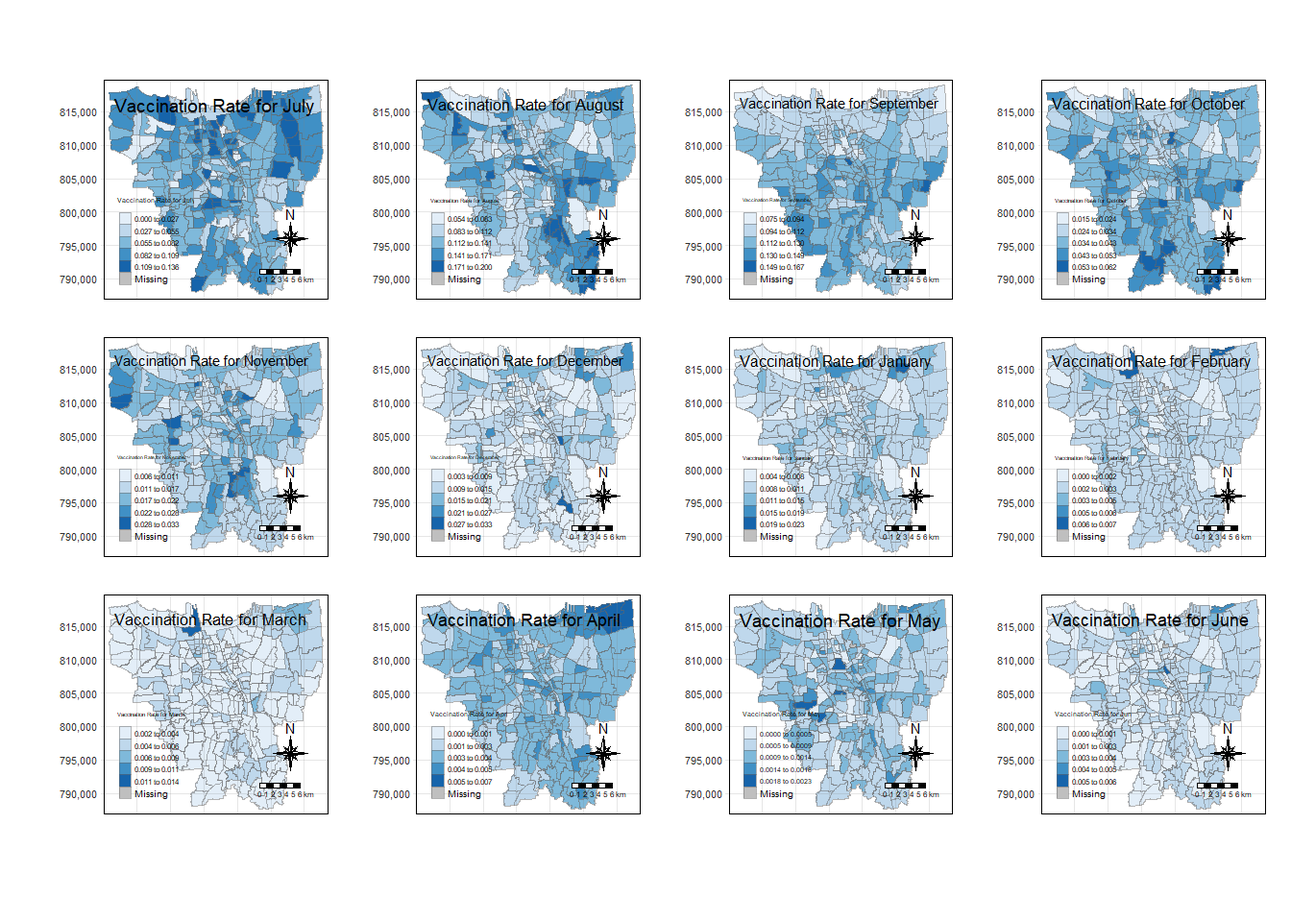
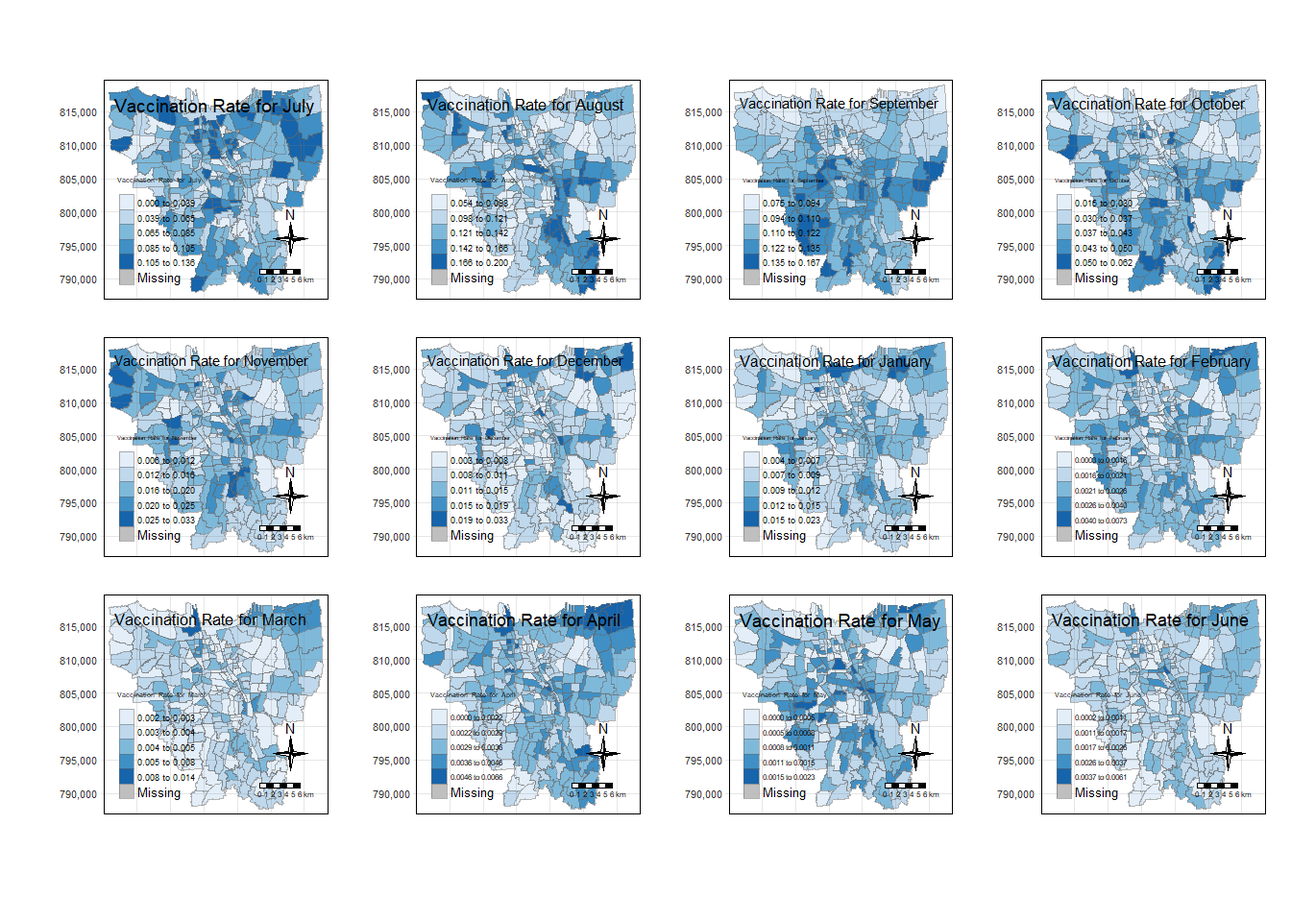
penultimate commit

diff --git a/_site/Take-home_Ex/Take-home_Ex02/Take-home_Ex02.html b/_site/Take-home_Ex/Take-home_Ex02/Take-home_Ex02.html
@@ -264,6 +264,19 @@ code span.wa { color: #60a0b0; font-weight: bold; font-style: italic; } /* Warni
   <li><a href="#monthly-vaccination-rate-visualization" id="toc-monthly-vaccination-rate-visualization" class="nav-link" data-scroll-target="#monthly-vaccination-rate-visualization"><span class="toc-section-number">4.2</span>  Monthly Vaccination Rate Visualization</a></li>
   <li><a href="#conclusion" id="toc-conclusion" class="nav-link" data-scroll-target="#conclusion"><span class="toc-section-number">4.3</span>  Conclusion</a></li>
   </ul></li>
+  <li><a href="#local-gi-analysis" id="toc-local-gi-analysis" class="nav-link" data-scroll-target="#local-gi-analysis"><span class="toc-section-number">5</span>  Local Gi* Analysis</a>
+  <ul class="collapse">
+  <li><a href="#compute-local-gi-values" id="toc-compute-local-gi-values" class="nav-link" data-scroll-target="#compute-local-gi-values"><span class="toc-section-number">5.1</span>  Compute local Gi* values</a></li>
+  <li><a href="#gi-maps-of-monthly-vaccination-rate" id="toc-gi-maps-of-monthly-vaccination-rate" class="nav-link" data-scroll-target="#gi-maps-of-monthly-vaccination-rate"><span class="toc-section-number">5.2</span>  Gi* maps of monthly vaccination rate</a></li>
+  <li><a href="#conclusion-1" id="toc-conclusion-1" class="nav-link" data-scroll-target="#conclusion-1"><span class="toc-section-number">5.3</span>  Conclusion</a></li>
+  </ul></li>
+  <li><a href="#emerging-hot-spot-analysis-ehsa" id="toc-emerging-hot-spot-analysis-ehsa" class="nav-link" data-scroll-target="#emerging-hot-spot-analysis-ehsa"><span class="toc-section-number">6</span>  Emerging Hot Spot Analysis (EHSA)</a>
+  <ul class="collapse">
+  <li><a href="#mann-kendall-test" id="toc-mann-kendall-test" class="nav-link" data-scroll-target="#mann-kendall-test"><span class="toc-section-number">6.1</span>  Mann-Kendall Test</a></li>
+  <li><a href="#temporal-trends-in" id="toc-temporal-trends-in" class="nav-link" data-scroll-target="#temporal-trends-in"><span class="toc-section-number">6.2</span>  Temporal Trends in …</a></li>
+  <li><a href="#ehsa-map-of-gi-values" id="toc-ehsa-map-of-gi-values" class="nav-link" data-scroll-target="#ehsa-map-of-gi-values"><span class="toc-section-number">6.3</span>  EHSA map of Gi* values</a></li>
+  <li><a href="#spatial-patterns-description" id="toc-spatial-patterns-description" class="nav-link" data-scroll-target="#spatial-patterns-description"><span class="toc-section-number">6.4</span>  Spatial Patterns description</a></li>
+  </ul></li>
   </ul>
 </nav>
     </div>
@@ -297,7 +310,7 @@ code span.wa { color: #60a0b0; font-weight: bold; font-style: italic; } /* Warni
     <div>
     <div class="quarto-title-meta-heading">Modified</div>
     <div class="quarto-title-meta-contents">
-      <p class="date-modified">February 26, 2023</p>
+      <p class="date-modified">March 2, 2023</p>
     </div>
   </div>
     
@@ -311,7 +324,7 @@ code span.wa { color: #60a0b0; font-weight: bold; font-style: italic; } /* Warni
 <section id="installing-and-loading-packages" class="level2" data-number="1.1">
 <h2 data-number="1.1" class="anchored" data-anchor-id="installing-and-loading-packages"><span class="header-section-number">1.1</span> Installing and Loading Packages</h2>
 <div class="cell">
-<div class="sourceCode cell-code" id="cb1"><pre class="sourceCode r code-with-copy"><code class="sourceCode r"><span id="cb1-1"><a href="#cb1-1" aria-hidden="true" tabindex="-1"></a>pacman<span class="sc">::</span><span class="fu">p_load</span>(sf, sfdep, sp, tmap, plyr, tidyverse, readxl, magrittr, knitr)</span></code><button title="Copy to Clipboard" class="code-copy-button"><i class="bi"></i></button></pre></div>
+<div class="sourceCode cell-code" id="cb1"><pre class="sourceCode r code-with-copy"><code class="sourceCode r"><span id="cb1-1"><a href="#cb1-1" aria-hidden="true" tabindex="-1"></a>pacman<span class="sc">::</span><span class="fu">p_load</span>(sf, sfdep, tmap, plyr, tidyverse, readxl, magrittr, knitr)</span></code><button title="Copy to Clipboard" class="code-copy-button"><i class="bi"></i></button></pre></div>
 </div>
 </section>
 </section>
@@ -472,7 +485,7 @@ $ `TENAGA KESEHATAN TOTAL\r\nVAKSIN DIBERIKAN` &lt;dbl&gt; 138539, 194, 171, 394
 <span id="cb19-2"><a href="#cb19-2" aria-hidden="true" tabindex="-1"></a>  <span class="fu">relocate</span>(<span class="st">"Vaccination Target"</span>, <span class="at">.after=</span><span class="st">"KELURAHAN"</span>)</span></code><button title="Copy to Clipboard" class="code-copy-button"><i class="bi"></i></button></pre></div>
 </div>
 <div class="cell">
-<div class="sourceCode cell-code" id="cb20"><pre class="sourceCode r code-with-copy"><code class="sourceCode r"><span id="cb20-1"><a href="#cb20-1" aria-hidden="true" tabindex="-1"></a><span class="fu">kable</span>(vaccination)</span></code><button title="Copy to Clipboard" class="code-copy-button"><i class="bi"></i></button></pre></div>
+<div class="sourceCode cell-code" id="cb20"><pre class="sourceCode r code-with-copy"><code class="sourceCode r"><span id="cb20-1"><a href="#cb20-1" aria-hidden="true" tabindex="-1"></a><span class="fu">kable</span>(<span class="fu">head</span>(vaccination))</span></code><button title="Copy to Clipboard" class="code-copy-button"><i class="bi"></i></button></pre></div>
 </div>
 <p>Now, we will look for any potential redundant fields or duplicated regions. We shall use the code chunk below to check for duplicates.</p>
 <div class="cell">
@@ -607,43 +620,144 @@ $ `TENAGA KESEHATAN TOTAL\r\nVAKSIN DIBERIKAN` &lt;dbl&gt; 138539, 194, 171, 394
 <span id="cb43-8"><a href="#cb43-8" aria-hidden="true" tabindex="-1"></a>  vac_current <span class="ot">=</span> dataCleaned <span class="sc">%&gt;%</span></span>
 <span id="cb43-9"><a href="#cb43-9" aria-hidden="true" tabindex="-1"></a>  <span class="fu">extract2</span>(<span class="fu">colnames</span>(dataCleaned)[<span class="fu">grepl</span>(i , <span class="fu">names</span>(dataCleaned))])</span>
 <span id="cb43-10"><a href="#cb43-10" aria-hidden="true" tabindex="-1"></a>  </span>
-<span id="cb43-11"><a href="#cb43-11" aria-hidden="true" tabindex="-1"></a>  colname <span class="ot">=</span> <span class="fu">paste</span>(<span class="st">"Vaccination Rate for"</span>, i, <span class="at">sep =</span> <span class="st">" "</span>)</span>
+<span id="cb43-11"><a href="#cb43-11" aria-hidden="true" tabindex="-1"></a>  colname <span class="ot">=</span> <span class="fu">paste</span>(<span class="st">"Vaccination_Rate_for"</span>, i, <span class="at">sep =</span> <span class="st">"_"</span>)</span>
 <span id="cb43-12"><a href="#cb43-12" aria-hidden="true" tabindex="-1"></a>  dataCleaned[colname] <span class="ot">=</span> <span class="fu">abs</span>(vac_current <span class="sc">-</span> vac_minus1) <span class="sc">/</span> vac_target</span>
 <span id="cb43-13"><a href="#cb43-13" aria-hidden="true" tabindex="-1"></a>  </span>
 <span id="cb43-14"><a href="#cb43-14" aria-hidden="true" tabindex="-1"></a>  vac_minus1 <span class="ot">=</span> vac_current</span>
-<span id="cb43-15"><a href="#cb43-15" aria-hidden="true" tabindex="-1"></a>}</span></code><button title="Copy to Clipboard" class="code-copy-button"><i class="bi"></i></button></pre></div>
+<span id="cb43-15"><a href="#cb43-15" aria-hidden="true" tabindex="-1"></a>}</span>
+<span id="cb43-16"><a href="#cb43-16" aria-hidden="true" tabindex="-1"></a></span>
+<span id="cb43-17"><a href="#cb43-17" aria-hidden="true" tabindex="-1"></a>dataCleaned <span class="ot">=</span> dataCleaned[, <span class="sc">!</span><span class="fu">grepl</span>(<span class="st">"Yet-to-be"</span>, <span class="fu">colnames</span>(dataCleaned))]</span></code><button title="Copy to Clipboard" class="code-copy-button"><i class="bi"></i></button></pre></div>
 </div>
 </section>
 <section id="monthly-vaccination-rate-visualization" class="level2" data-number="4.2">
 <h2 data-number="4.2" class="anchored" data-anchor-id="monthly-vaccination-rate-visualization"><span class="header-section-number">4.2</span> Monthly Vaccination Rate Visualization</h2>
 <div class="cell">
-<div class="sourceCode cell-code" id="cb44"><pre class="sourceCode r code-with-copy"><code class="sourceCode r"><span id="cb44-1"><a href="#cb44-1" aria-hidden="true" tabindex="-1"></a>vac_rate <span class="ot">=</span> <span class="fu">c</span>(<span class="fu">colnames</span>(dataCleaned)[<span class="fu">grepl</span>(<span class="st">"Vaccination Rate"</span> , <span class="fu">colnames</span>(dataCleaned))])</span>
+<div class="sourceCode cell-code" id="cb44"><pre class="sourceCode r code-with-copy"><code class="sourceCode r"><span id="cb44-1"><a href="#cb44-1" aria-hidden="true" tabindex="-1"></a>vac_rate <span class="ot">=</span> <span class="fu">c</span>(<span class="fu">colnames</span>(dataCleaned)[<span class="fu">grepl</span>(<span class="st">"Vaccination_Rate"</span> , <span class="fu">colnames</span>(dataCleaned))])</span>
 <span id="cb44-2"><a href="#cb44-2" aria-hidden="true" tabindex="-1"></a></span>
-<span id="cb44-3"><a href="#cb44-3" aria-hidden="true" tabindex="-1"></a><span class="fu">tm_shape</span>(dataCleaned)<span class="sc">+</span></span>
+<span id="cb44-3"><a href="#cb44-3" aria-hidden="true" tabindex="-1"></a><span class="fu">tm_shape</span>(dataCleaned) <span class="sc">+</span></span>
 <span id="cb44-4"><a href="#cb44-4" aria-hidden="true" tabindex="-1"></a>  <span class="fu">tm_fill</span>(vac_rate, </span>
-<span id="cb44-5"><a href="#cb44-5" aria-hidden="true" tabindex="-1"></a>          <span class="at">style =</span> <span class="st">"equal"</span>,</span>
-<span id="cb44-6"><a href="#cb44-6" aria-hidden="true" tabindex="-1"></a>          <span class="at">palette =</span> <span class="st">"Blues"</span>)<span class="sc">+</span></span>
-<span id="cb44-7"><a href="#cb44-7" aria-hidden="true" tabindex="-1"></a>  <span class="fu">tm_layout</span>(<span class="at">title =</span> vac_rate,</span>
-<span id="cb44-8"><a href="#cb44-8" aria-hidden="true" tabindex="-1"></a>            <span class="at">title.position =</span> <span class="fu">c</span>(<span class="st">"center"</span>, <span class="st">"top"</span>), </span>
-<span id="cb44-9"><a href="#cb44-9" aria-hidden="true" tabindex="-1"></a>            <span class="at">title.size =</span> <span class="fl">1.2</span>,</span>
-<span id="cb44-10"><a href="#cb44-10" aria-hidden="true" tabindex="-1"></a>            <span class="at">legend.position =</span> <span class="fu">c</span>(<span class="st">"left"</span>, <span class="st">"bottom"</span>),</span>
-<span id="cb44-11"><a href="#cb44-11" aria-hidden="true" tabindex="-1"></a>            <span class="at">legend.height =</span> <span class="fl">0.45</span>, </span>
-<span id="cb44-12"><a href="#cb44-12" aria-hidden="true" tabindex="-1"></a>            <span class="at">legend.width =</span> <span class="fl">0.35</span>,</span>
-<span id="cb44-13"><a href="#cb44-13" aria-hidden="true" tabindex="-1"></a>            <span class="at">frame =</span> <span class="cn">TRUE</span>)<span class="sc">+</span></span>
-<span id="cb44-14"><a href="#cb44-14" aria-hidden="true" tabindex="-1"></a>  <span class="fu">tm_borders</span>(<span class="at">alpha =</span> <span class="fl">0.5</span>) <span class="sc">+</span></span>
-<span id="cb44-15"><a href="#cb44-15" aria-hidden="true" tabindex="-1"></a>  <span class="fu">tm_compass</span>(<span class="at">type=</span><span class="st">"8star"</span>, <span class="at">size =</span> <span class="dv">2</span>) <span class="sc">+</span></span>
-<span id="cb44-16"><a href="#cb44-16" aria-hidden="true" tabindex="-1"></a>  <span class="fu">tm_scale_bar</span>(<span class="at">width =</span> <span class="fl">0.15</span>) <span class="sc">+</span></span>
-<span id="cb44-17"><a href="#cb44-17" aria-hidden="true" tabindex="-1"></a>  <span class="fu">tm_grid</span>(<span class="at">lwd =</span> <span class="fl">0.1</span>, <span class="at">alpha =</span> <span class="fl">0.2</span>)</span></code><button title="Copy to Clipboard" class="code-copy-button"><i class="bi"></i></button></pre></div>
+<span id="cb44-5"><a href="#cb44-5" aria-hidden="true" tabindex="-1"></a>          <span class="at">style =</span> <span class="st">"jenks"</span>,</span>
+<span id="cb44-6"><a href="#cb44-6" aria-hidden="true" tabindex="-1"></a>          <span class="at">palette =</span> <span class="st">"Blues"</span>) <span class="sc">+</span></span>
+<span id="cb44-7"><a href="#cb44-7" aria-hidden="true" tabindex="-1"></a>  <span class="fu">tm_layout</span>(<span class="at">title =</span> <span class="fu">gsub</span>(<span class="st">"_"</span>, <span class="st">" "</span>, vac_rate),</span>
+<span id="cb44-8"><a href="#cb44-8" aria-hidden="true" tabindex="-1"></a>            <span class="at">title.position =</span> <span class="fu">c</span>(<span class="st">"center"</span>, <span class="st">"top"</span>),</span>
+<span id="cb44-9"><a href="#cb44-9" aria-hidden="true" tabindex="-1"></a>            <span class="at">legend.position =</span> <span class="fu">c</span>(<span class="st">"left"</span>, <span class="st">"bottom"</span>),</span>
+<span id="cb44-10"><a href="#cb44-10" aria-hidden="true" tabindex="-1"></a>            <span class="at">frame =</span> <span class="cn">TRUE</span>) <span class="sc">+</span></span>
+<span id="cb44-11"><a href="#cb44-11" aria-hidden="true" tabindex="-1"></a>  <span class="fu">tm_borders</span>(<span class="at">alpha =</span> <span class="fl">0.5</span>) <span class="sc">+</span></span>
+<span id="cb44-12"><a href="#cb44-12" aria-hidden="true" tabindex="-1"></a>  <span class="fu">tm_compass</span>(<span class="at">type=</span><span class="st">"4star"</span>, <span class="at">size =</span> <span class="dv">2</span>) <span class="sc">+</span></span>
+<span id="cb44-13"><a href="#cb44-13" aria-hidden="true" tabindex="-1"></a>  <span class="fu">tm_scale_bar</span>(<span class="at">width =</span> <span class="fl">0.15</span>) <span class="sc">+</span></span>
+<span id="cb44-14"><a href="#cb44-14" aria-hidden="true" tabindex="-1"></a>  <span class="fu">tm_grid</span>(<span class="at">lwd =</span> <span class="fl">0.1</span>, <span class="at">alpha =</span> <span class="fl">0.2</span>)</span></code><button title="Copy to Clipboard" class="code-copy-button"><i class="bi"></i></button></pre></div>
 <div class="cell-output-display">
 <p><img src="Take-home_Ex02_files/figure-html/unnamed-chunk-42-1.png" class="img-fluid" width="672"></p>
 </div>
 </div>
-<div class="cell">
-<div class="sourceCode cell-code" id="cb45"><pre class="sourceCode r code-with-copy"><code class="sourceCode r"><span id="cb45-1"><a href="#cb45-1" aria-hidden="true" tabindex="-1"></a><span class="fu">tmap_arrange</span>(youngmap, agedmap, <span class="at">asp=</span><span class="dv">1</span>, <span class="at">ncol=</span><span class="dv">2</span>)</span></code><button title="Copy to Clipboard" class="code-copy-button"><i class="bi"></i></button></pre></div>
-</div>
 </section>
 <section id="conclusion" class="level2" data-number="4.3">
 <h2 data-number="4.3" class="anchored" data-anchor-id="conclusion"><span class="header-section-number">4.3</span> Conclusion</h2>
+<p>here…</p>
+</section>
+</section>
+<section id="local-gi-analysis" class="level1" data-number="5">
+<h1 data-number="5"><span class="header-section-number">5</span> Local Gi* Analysis</h1>
+<p>Objectives of this section:</p>
+<ul>
+<li><p>Compute local Gi* values of the monthly vaccination rate,</p></li>
+<li><p>Display the Gi* maps of the monthly vaccination rate. The maps should only display the significant (i.e.&nbsp;p-value &lt; 0.05),</p></li>
+<li><p>With reference to the analysis results, draw statistical conclusions (not more than 250 words).</p></li>
+</ul>
+<section id="compute-local-gi-values" class="level2" data-number="5.1">
+<h2 data-number="5.1" class="anchored" data-anchor-id="compute-local-gi-values"><span class="header-section-number">5.1</span> Compute local Gi* values</h2>
+<div class="cell">
+<div class="sourceCode cell-code" id="cb45"><pre class="sourceCode r code-with-copy"><code class="sourceCode r"><span id="cb45-1"><a href="#cb45-1" aria-hidden="true" tabindex="-1"></a>wm_idw <span class="ot">&lt;-</span> <span class="fu">na.omit</span>(dataCleaned) <span class="sc">%&gt;%</span></span>
+<span id="cb45-2"><a href="#cb45-2" aria-hidden="true" tabindex="-1"></a>  <span class="fu">mutate</span>(<span class="at">nb =</span> <span class="fu">st_contiguity</span>(geometry),</span>
+<span id="cb45-3"><a href="#cb45-3" aria-hidden="true" tabindex="-1"></a>         <span class="at">wts =</span> <span class="fu">st_inverse_distance</span>(nb, geometry,</span>
+<span id="cb45-4"><a href="#cb45-4" aria-hidden="true" tabindex="-1"></a>                                   <span class="at">scale =</span> <span class="dv">1</span>,</span>
+<span id="cb45-5"><a href="#cb45-5" aria-hidden="true" tabindex="-1"></a>                                   <span class="at">alpha =</span> <span class="dv">1</span>),</span>
+<span id="cb45-6"><a href="#cb45-6" aria-hidden="true" tabindex="-1"></a>         <span class="at">.before =</span> <span class="dv">1</span>)</span></code><button title="Copy to Clipboard" class="code-copy-button"><i class="bi"></i></button></pre></div>
+</div>
+<div class="cell">
+<div class="sourceCode cell-code" id="cb46"><pre class="sourceCode r code-with-copy"><code class="sourceCode r"><span id="cb46-1"><a href="#cb46-1" aria-hidden="true" tabindex="-1"></a>local_gi <span class="ot">=</span> <span class="cf">function</span>(df, varname) {</span>
+<span id="cb46-2"><a href="#cb46-2" aria-hidden="true" tabindex="-1"></a>  df1 <span class="ot">=</span> df <span class="sc">%&gt;%</span></span>
+<span id="cb46-3"><a href="#cb46-3" aria-hidden="true" tabindex="-1"></a>    <span class="fu">st_set_geometry</span>(<span class="cn">NULL</span>)</span>
+<span id="cb46-4"><a href="#cb46-4" aria-hidden="true" tabindex="-1"></a>  HCSA <span class="ot">=</span> df <span class="sc">%&gt;%</span> </span>
+<span id="cb46-5"><a href="#cb46-5" aria-hidden="true" tabindex="-1"></a>    <span class="fu">mutate</span>(<span class="at">local_Gi =</span> <span class="fu">local_gstar_perm</span>(df1[, <span class="fu">grepl</span>(varname, <span class="fu">names</span>(df))],</span>
+<span id="cb46-6"><a href="#cb46-6" aria-hidden="true" tabindex="-1"></a>                                       nb, wt, <span class="at">nsim =</span> <span class="dv">99</span>),</span>
+<span id="cb46-7"><a href="#cb46-7" aria-hidden="true" tabindex="-1"></a>           <span class="at">.before =</span> <span class="dv">1</span>) <span class="sc">%&gt;%</span></span>
+<span id="cb46-8"><a href="#cb46-8" aria-hidden="true" tabindex="-1"></a>    <span class="fu">unnest</span>(local_Gi)</span>
+<span id="cb46-9"><a href="#cb46-9" aria-hidden="true" tabindex="-1"></a>}</span></code><button title="Copy to Clipboard" class="code-copy-button"><i class="bi"></i></button></pre></div>
+</div>
+</section>
+<section id="gi-maps-of-monthly-vaccination-rate" class="level2" data-number="5.2">
+<h2 data-number="5.2" class="anchored" data-anchor-id="gi-maps-of-monthly-vaccination-rate"><span class="header-section-number">5.2</span> Gi* maps of monthly vaccination rate</h2>
+<div class="cell">
+<div class="sourceCode cell-code" id="cb47"><pre class="sourceCode r code-with-copy"><code class="sourceCode r"><span id="cb47-1"><a href="#cb47-1" aria-hidden="true" tabindex="-1"></a>map_plot <span class="ot">=</span> <span class="cf">function</span>(df, varname){</span>
+<span id="cb47-2"><a href="#cb47-2" aria-hidden="true" tabindex="-1"></a>  <span class="fu">tm_shape</span>(df) <span class="sc">+</span></span>
+<span id="cb47-3"><a href="#cb47-3" aria-hidden="true" tabindex="-1"></a>    <span class="fu">tm_fill</span>(<span class="st">"gi_star"</span>, <span class="at">midpoint =</span> <span class="cn">NA</span>) <span class="sc">+</span> </span>
+<span id="cb47-4"><a href="#cb47-4" aria-hidden="true" tabindex="-1"></a>    <span class="fu">tm_layout</span>(<span class="at">title =</span> <span class="fu">gsub</span>(<span class="st">"_"</span>, <span class="st">" "</span>, varname),</span>
+<span id="cb47-5"><a href="#cb47-5" aria-hidden="true" tabindex="-1"></a>            <span class="at">legend.position =</span> <span class="fu">c</span>(<span class="st">"left"</span>, <span class="st">"bottom"</span>),</span>
+<span id="cb47-6"><a href="#cb47-6" aria-hidden="true" tabindex="-1"></a>            <span class="at">frame =</span> <span class="cn">TRUE</span>) <span class="sc">+</span></span>
+<span id="cb47-7"><a href="#cb47-7" aria-hidden="true" tabindex="-1"></a>    <span class="fu">tm_borders</span>(<span class="at">alpha =</span> <span class="fl">0.5</span>)</span>
+<span id="cb47-8"><a href="#cb47-8" aria-hidden="true" tabindex="-1"></a>}</span></code><button title="Copy to Clipboard" class="code-copy-button"><i class="bi"></i></button></pre></div>
+</div>
+<div class="cell">
+<div class="sourceCode cell-code" id="cb48"><pre class="sourceCode r code-with-copy"><code class="sourceCode r"><span id="cb48-1"><a href="#cb48-1" aria-hidden="true" tabindex="-1"></a>columns <span class="ot">=</span> <span class="fu">colnames</span>(wm_idw)[<span class="fu">grepl</span>(<span class="st">"Vaccination_Rate"</span>, <span class="fu">names</span>(wm_idw))]</span>
+<span id="cb48-2"><a href="#cb48-2" aria-hidden="true" tabindex="-1"></a></span>
+<span id="cb48-3"><a href="#cb48-3" aria-hidden="true" tabindex="-1"></a><span class="cf">for</span> (i <span class="cf">in</span> <span class="dv">1</span><span class="sc">:</span><span class="dv">12</span>){</span>
+<span id="cb48-4"><a href="#cb48-4" aria-hidden="true" tabindex="-1"></a>  <span class="cf">if</span> (i <span class="sc">&lt;</span> <span class="dv">12</span>){</span>
+<span id="cb48-5"><a href="#cb48-5" aria-hidden="true" tabindex="-1"></a>    map <span class="ot">=</span> <span class="fu">map_plot</span>(<span class="fu">local_gi</span>(wm_idw, columns[i]), months[i])</span>
+<span id="cb48-6"><a href="#cb48-6" aria-hidden="true" tabindex="-1"></a>    <span class="fu">assign</span>(<span class="fu">paste</span>(<span class="st">"map_"</span>, i, <span class="at">sep =</span> <span class="st">""</span>), map)</span>
+<span id="cb48-7"><a href="#cb48-7" aria-hidden="true" tabindex="-1"></a>  } <span class="cf">else</span> {</span>
+<span id="cb48-8"><a href="#cb48-8" aria-hidden="true" tabindex="-1"></a>    HCSA <span class="ot">=</span> wm_idw <span class="sc">%&gt;%</span> </span>
+<span id="cb48-9"><a href="#cb48-9" aria-hidden="true" tabindex="-1"></a>      <span class="fu">mutate</span>(<span class="at">local_Gi =</span> <span class="fu">local_gstar_perm</span>(Vaccination_Rate_for_June,</span>
+<span id="cb48-10"><a href="#cb48-10" aria-hidden="true" tabindex="-1"></a>                                         nb, wt, </span>
+<span id="cb48-11"><a href="#cb48-11" aria-hidden="true" tabindex="-1"></a>                                         <span class="at">nsim =</span> <span class="dv">99</span>),</span>
+<span id="cb48-12"><a href="#cb48-12" aria-hidden="true" tabindex="-1"></a>             <span class="at">.before =</span> <span class="dv">1</span>) <span class="sc">%&gt;%</span></span>
+<span id="cb48-13"><a href="#cb48-13" aria-hidden="true" tabindex="-1"></a>      <span class="fu">unnest</span>(local_Gi)</span>
+<span id="cb48-14"><a href="#cb48-14" aria-hidden="true" tabindex="-1"></a>  <span class="fu">assign</span>(<span class="fu">paste</span>(<span class="st">"map_"</span>, i, <span class="at">sep =</span> <span class="st">""</span>), <span class="fu">map_plot</span>(HCSA, months[<span class="dv">12</span>]))</span>
+<span id="cb48-15"><a href="#cb48-15" aria-hidden="true" tabindex="-1"></a>  }</span>
+<span id="cb48-16"><a href="#cb48-16" aria-hidden="true" tabindex="-1"></a>}</span></code><button title="Copy to Clipboard" class="code-copy-button"><i class="bi"></i></button></pre></div>
+</div>
+<div class="cell">
+<div class="sourceCode cell-code" id="cb49"><pre class="sourceCode r code-with-copy"><code class="sourceCode r"><span id="cb49-1"><a href="#cb49-1" aria-hidden="true" tabindex="-1"></a><span class="fu">tmap_arrange</span>(map_1, map_2, map_3, map_4,</span>
+<span id="cb49-2"><a href="#cb49-2" aria-hidden="true" tabindex="-1"></a>             <span class="at">ncol=</span><span class="dv">2</span>)</span></code><button title="Copy to Clipboard" class="code-copy-button"><i class="bi"></i></button></pre></div>
+<div class="cell-output-display">
+<p><img src="Take-home_Ex02_files/figure-html/unnamed-chunk-47-1.png" class="img-fluid" width="672"></p>
+</div>
+<div class="sourceCode cell-code" id="cb50"><pre class="sourceCode r code-with-copy"><code class="sourceCode r"><span id="cb50-1"><a href="#cb50-1" aria-hidden="true" tabindex="-1"></a><span class="fu">tmap_arrange</span>(map_5, map_6, map_7, map_8,</span>
+<span id="cb50-2"><a href="#cb50-2" aria-hidden="true" tabindex="-1"></a>             <span class="at">ncol=</span><span class="dv">2</span>)</span></code><button title="Copy to Clipboard" class="code-copy-button"><i class="bi"></i></button></pre></div>
+<div class="cell-output-display">
+<p><img src="Take-home_Ex02_files/figure-html/unnamed-chunk-47-2.png" class="img-fluid" width="672"></p>
+</div>
+<div class="sourceCode cell-code" id="cb51"><pre class="sourceCode r code-with-copy"><code class="sourceCode r"><span id="cb51-1"><a href="#cb51-1" aria-hidden="true" tabindex="-1"></a><span class="fu">tmap_arrange</span>(map_9, map_10, map_11, map_12,</span>
+<span id="cb51-2"><a href="#cb51-2" aria-hidden="true" tabindex="-1"></a>             <span class="at">ncol=</span><span class="dv">2</span>)</span></code><button title="Copy to Clipboard" class="code-copy-button"><i class="bi"></i></button></pre></div>
+<div class="cell-output-display">
+<p><img src="Take-home_Ex02_files/figure-html/unnamed-chunk-47-3.png" class="img-fluid" width="672"></p>
+</div>
+</div>
+</section>
+<section id="conclusion-1" class="level2" data-number="5.3">
+<h2 data-number="5.3" class="anchored" data-anchor-id="conclusion-1"><span class="header-section-number">5.3</span> Conclusion</h2>
+</section>
+</section>
+<section id="emerging-hot-spot-analysis-ehsa" class="level1" data-number="6">
+<h1 data-number="6"><span class="header-section-number">6</span> Emerging Hot Spot Analysis (EHSA)</h1>
+<p>Objectives of this section:</p>
+<ul>
+<li><p>Perform Mann-Kendall Test by using the spatio-temporal local Gi* values,</p></li>
+<li><p>Select three sub-districts and describe the temporal trends revealed (not more than 250 words),</p></li>
+<li><p>Prepared a EHSA map of the Gi* values of vaccination rate. The maps should only display the significant (i.e.&nbsp;p-value &lt; 0.05),</p></li>
+<li><p>With reference to the EHSA map prepared, describe the spatial patterns revealed (not more than 250 words).</p></li>
+</ul>
+<section id="mann-kendall-test" class="level2" data-number="6.1">
+<h2 data-number="6.1" class="anchored" data-anchor-id="mann-kendall-test"><span class="header-section-number">6.1</span> Mann-Kendall Test</h2>
+</section>
+<section id="temporal-trends-in" class="level2" data-number="6.2">
+<h2 data-number="6.2" class="anchored" data-anchor-id="temporal-trends-in"><span class="header-section-number">6.2</span> Temporal Trends in …</h2>
+</section>
+<section id="ehsa-map-of-gi-values" class="level2" data-number="6.3">
+<h2 data-number="6.3" class="anchored" data-anchor-id="ehsa-map-of-gi-values"><span class="header-section-number">6.3</span> EHSA map of Gi* values</h2>
+</section>
+<section id="spatial-patterns-description" class="level2" data-number="6.4">
+<h2 data-number="6.4" class="anchored" data-anchor-id="spatial-patterns-description"><span class="header-section-number">6.4</span> Spatial Patterns description</h2>
 
 
 </section>
